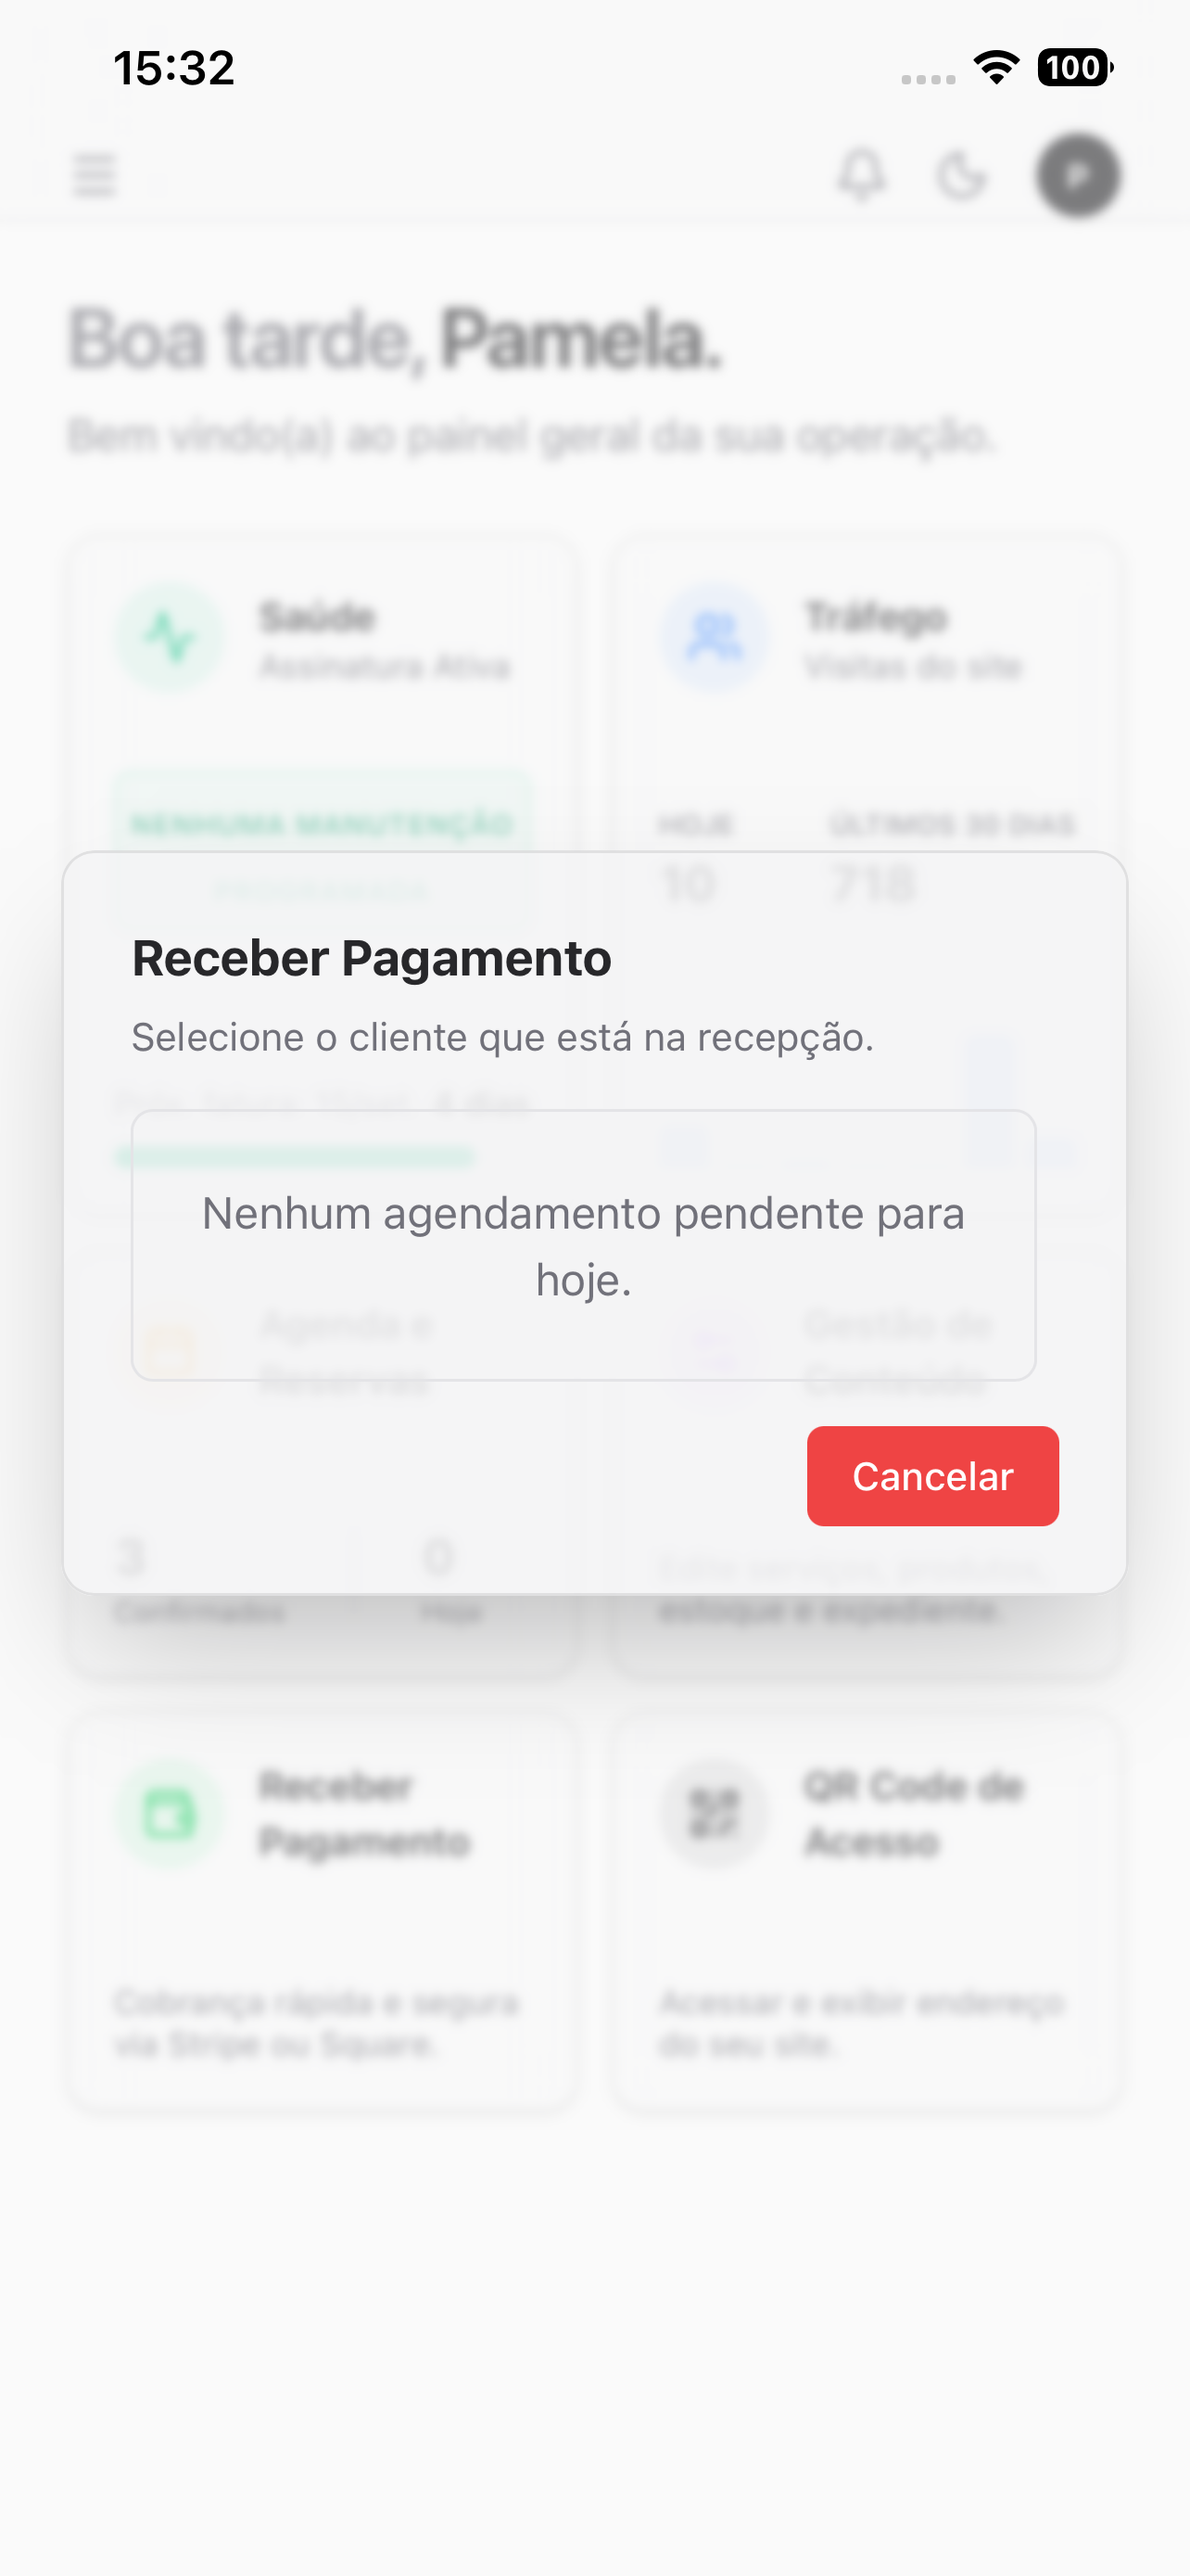
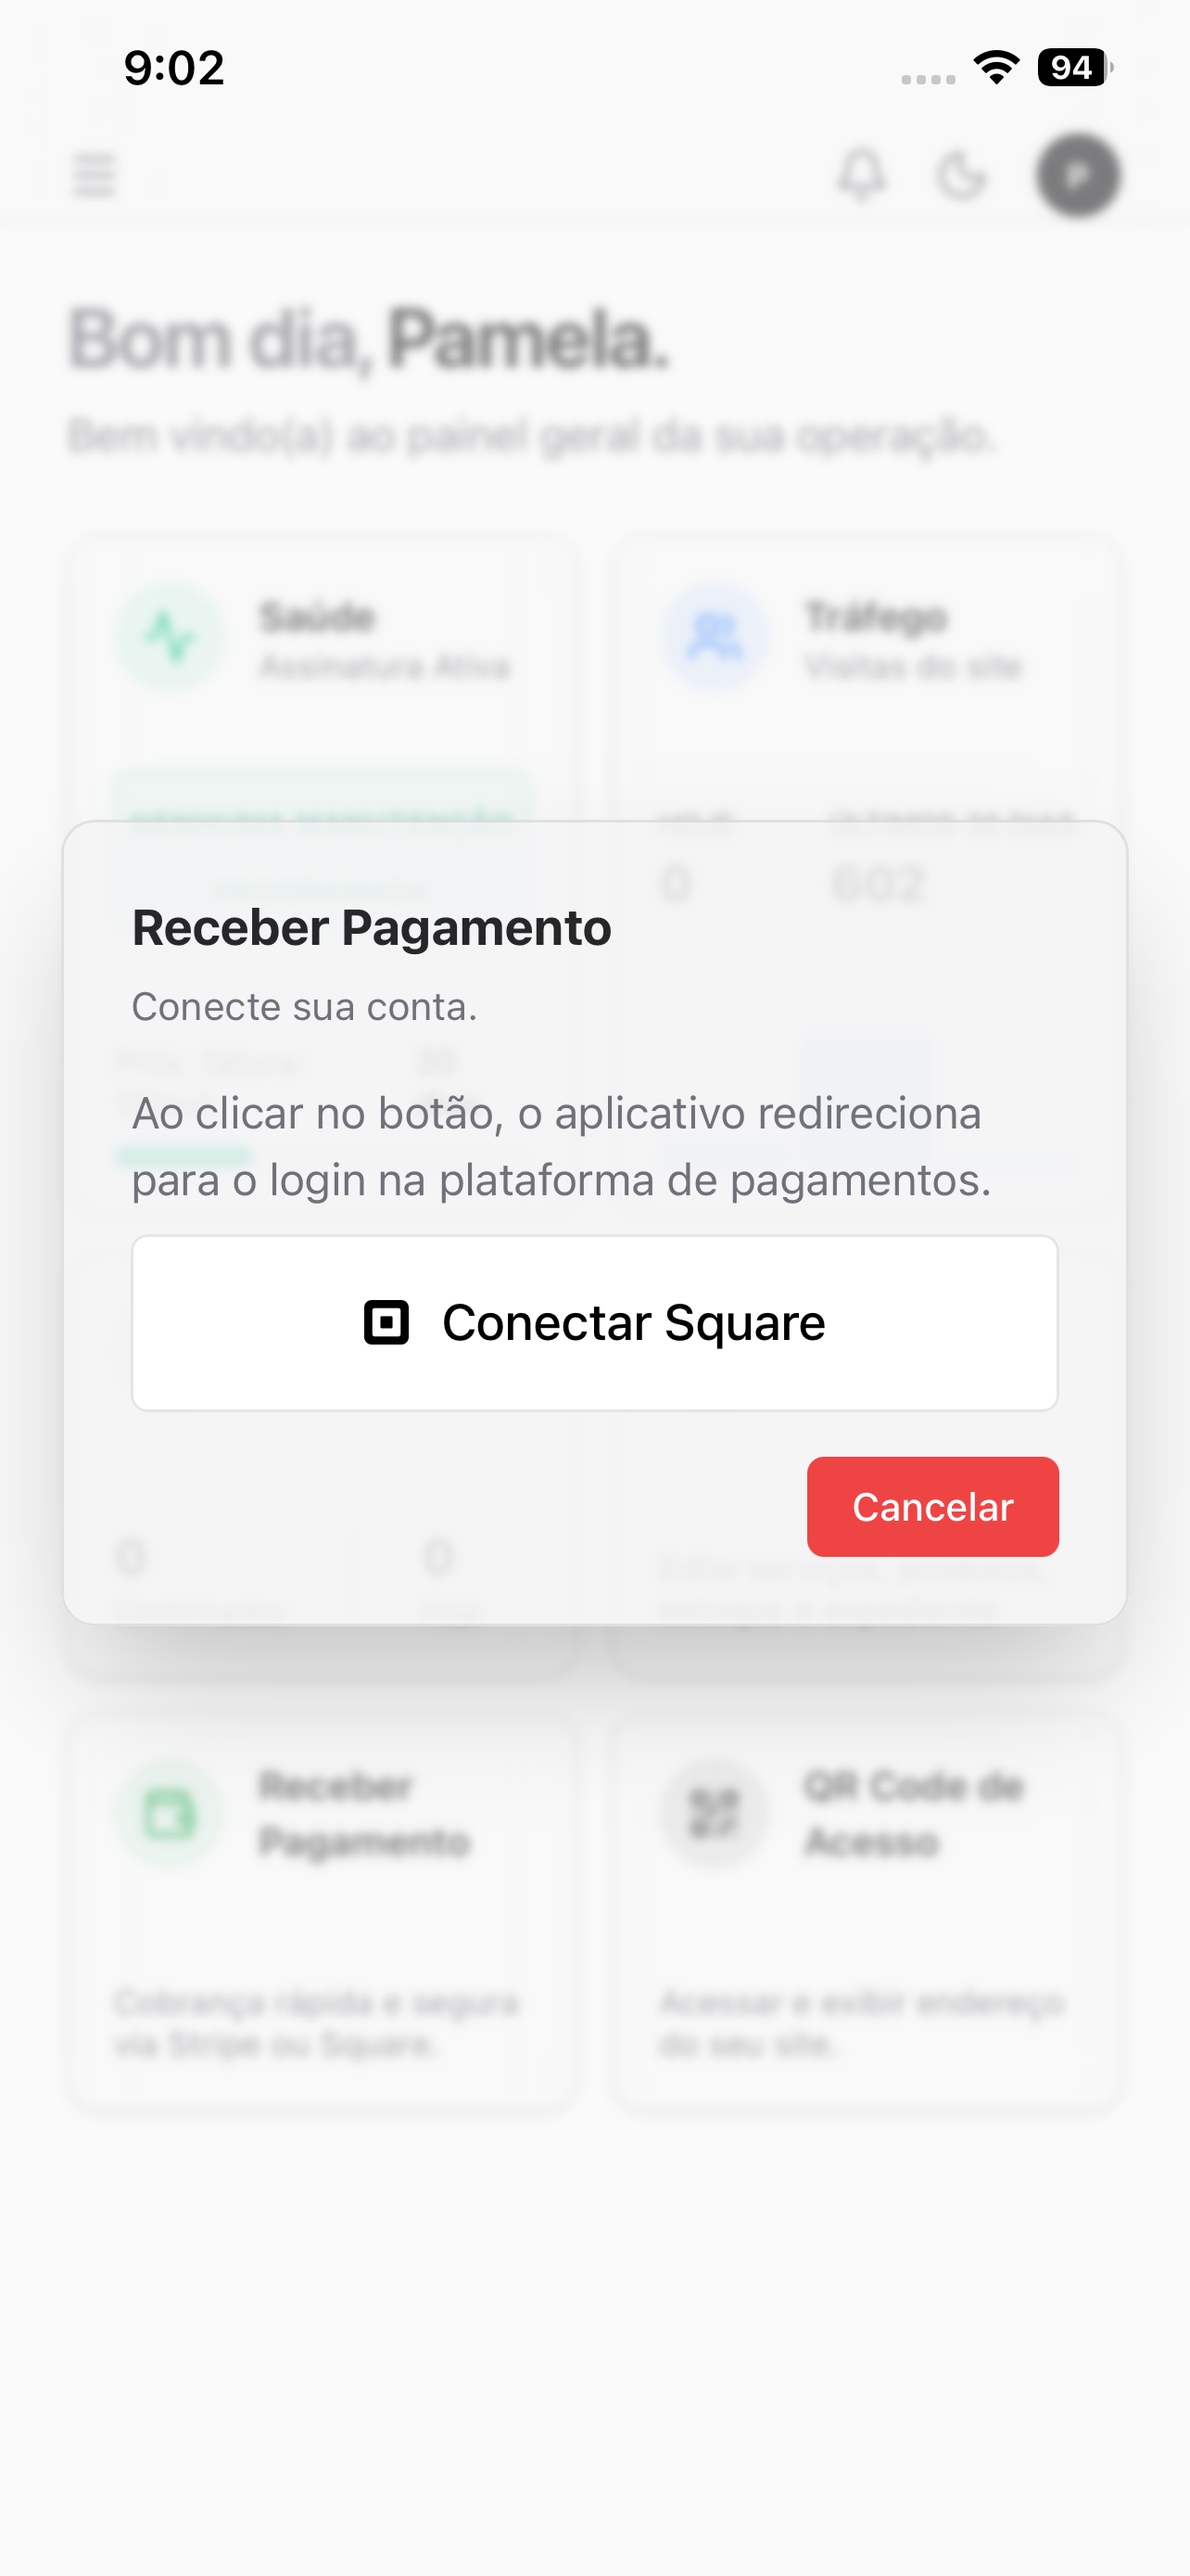
fix: reposition lightbox buttons and add captions to the codifylab carousel

diff --git a/src/components/ui/image-lightbox.tsx b/src/components/ui/image-lightbox.tsx
@@ -2,17 +2,25 @@
 
 import { motion } from 'framer-motion'
 import { useEffect } from 'react'
+import { Trans } from 'react-i18next'
 import { X, ChevronLeft, ChevronRight } from 'lucide-react'
 import { ModalShell } from './modal-shell'
 
 interface ImageLightboxProps {
   images: string[]
+  captionsI18nKey?: string
   index: number | null
   onClose: () => void
   onNavigate: (index: number) => void
 }
 
-export function ImageLightbox({ images, index, onClose, onNavigate }: ImageLightboxProps) {
+export function ImageLightbox({
+  images,
+  captionsI18nKey,
+  index,
+  onClose,
+  onNavigate,
+}: ImageLightboxProps) {
   useEffect(() => {
     if (index === null) return
 
@@ -33,47 +41,81 @@ export function ImageLightbox({ images, index, onClose, onNavigate }: ImageLight
           initial={{ opacity: 0, y: 20 }}
           animate={{ opacity: 1, y: 0 }}
           exit={{ opacity: 0, y: 20 }}
-          className="flex w-full max-w-2xl items-center justify-center"
+          className="flex w-full max-w-2xl flex-col items-center gap-3"
         >
-          <button
-            type="button"
-            onClick={onClose}
-            className="border-accent/30 bg-accent/5 text-accent hover:bg-accent hover:text-background absolute top-24 right-4 z-10 flex h-9 w-9 items-center justify-center border transition-colors sm:top-8 sm:right-8"
-          >
-            <X className="h-4 w-4" />
-          </button>
+          <div className="relative w-full">
+            <button
+              type="button"
+              onClick={onClose}
+              className="border-accent/30 bg-accent/5 text-accent hover:bg-accent hover:text-background absolute top-3 right-3 z-10 flex h-9 w-9 items-center justify-center border transition-colors"
+            >
+              <X className="h-4 w-4" />
+            </button>
 
-          <button
-            type="button"
-            onClick={() => onNavigate((index - 1 + images.length) % images.length)}
-            className="border-accent/30 bg-accent/5 text-accent hover:bg-accent hover:text-background absolute left-6 z-10 flex h-9 w-9 items-center justify-center border transition-colors sm:left-8"
-          >
-            <ChevronLeft className="h-4 w-4" />
-          </button>
+            <button
+              type="button"
+              onClick={() => onNavigate((index - 1 + images.length) % images.length)}
+              className="border-accent/30 bg-accent/5 text-accent hover:bg-accent hover:text-background absolute top-1/2 left-3 z-10 flex h-9 w-9 -translate-y-1/2 items-center justify-center border transition-colors"
+            >
+              <ChevronLeft className="h-4 w-4" />
+            </button>
 
-          <button
-            type="button"
-            onClick={() => onNavigate((index + 1) % images.length)}
-            className="border-accent/30 bg-accent/5 text-accent hover:bg-accent hover:text-background absolute right-6 z-10 flex h-9 w-9 items-center justify-center border transition-colors sm:right-8"
-          >
-            <ChevronRight className="h-4 w-4" />
-          </button>
+            <button
+              type="button"
+              onClick={() => onNavigate((index + 1) % images.length)}
+              className="border-accent/30 bg-accent/5 text-accent hover:bg-accent hover:text-background absolute top-1/2 right-3 z-10 flex h-9 w-9 -translate-y-1/2 items-center justify-center border transition-colors"
+            >
+              <ChevronRight className="h-4 w-4" />
+            </button>
 
-          <motion.div
-            key={index}
-            initial={{ opacity: 0, scale: 0.96 }}
-            animate={{ opacity: 1, scale: 1 }}
-            exit={{ opacity: 0, scale: 0.96 }}
-            transition={{ duration: 0.2 }}
-            className="border-accent/30 relative z-0 aspect-[4/5] w-full overflow-hidden border shadow-2xl"
-            onClick={(e) => e.stopPropagation()}
-            style={{
-              backgroundImage: `url(${images[index]})`,
-              backgroundSize: 'contain',
-              backgroundPosition: 'center',
-              backgroundRepeat: 'no-repeat',
-            }}
-          />
+            <motion.div
+              key={index}
+              initial={{ opacity: 0, scale: 0.96 }}
+              animate={{ opacity: 1, scale: 1 }}
+              exit={{ opacity: 0, scale: 0.96 }}
+              transition={{ duration: 0.2 }}
+              className="border-accent/30 relative z-0 aspect-[4/5] w-full overflow-hidden border shadow-2xl"
+              onClick={(e) => e.stopPropagation()}
+              style={{
+                backgroundImage: `url(${images[index]})`,
+                backgroundSize: 'contain',
+                backgroundPosition: 'center',
+                backgroundRepeat: 'no-repeat',
+              }}
+            />
+
+            <div className="absolute inset-x-0 bottom-3 z-10 flex justify-center gap-1.5">
+              {images.map((img, i) => (
+                <button
+                  key={img}
+                  type="button"
+                  onClick={() => onNavigate(i)}
+                  aria-label={`Slide ${i + 1}`}
+                  className={`h-1.5 rounded-full transition-all ${
+                    i === index ? 'bg-accent w-5' : 'bg-border w-1.5'
+                  }`}
+                />
+              ))}
+            </div>
+          </div>
+
+          {captionsI18nKey && (
+            <motion.p
+              key={`caption-${index}`}
+              initial={{ opacity: 0 }}
+              animate={{ opacity: 1 }}
+              transition={{ duration: 0.2, delay: 0.1 }}
+              className="text-muted-foreground mt-6 px-4 text-center font-mono text-sm"
+            >
+              <Trans
+                i18nKey={`${captionsI18nKey}.${index}`}
+                components={{
+                  1: <span className="text-accent" />,
+                  2: <br />,
+                }}
+              />
+            </motion.p>
+          )}
         </motion.div>
       )}
     </ModalShell>

diff --git a/src/components/slides/featured-slide.tsx b/src/components/slides/featured-slide.tsx
@@ -140,6 +140,7 @@ export function FeaturedSlide() {
 
         <ImageLightbox
           images={images}
+          captionsI18nKey="slides.codifylab.captions"
           index={lightboxIndex}
           onClose={() => setLightboxIndex(null)}
           onNavigate={setLightboxIndex}
